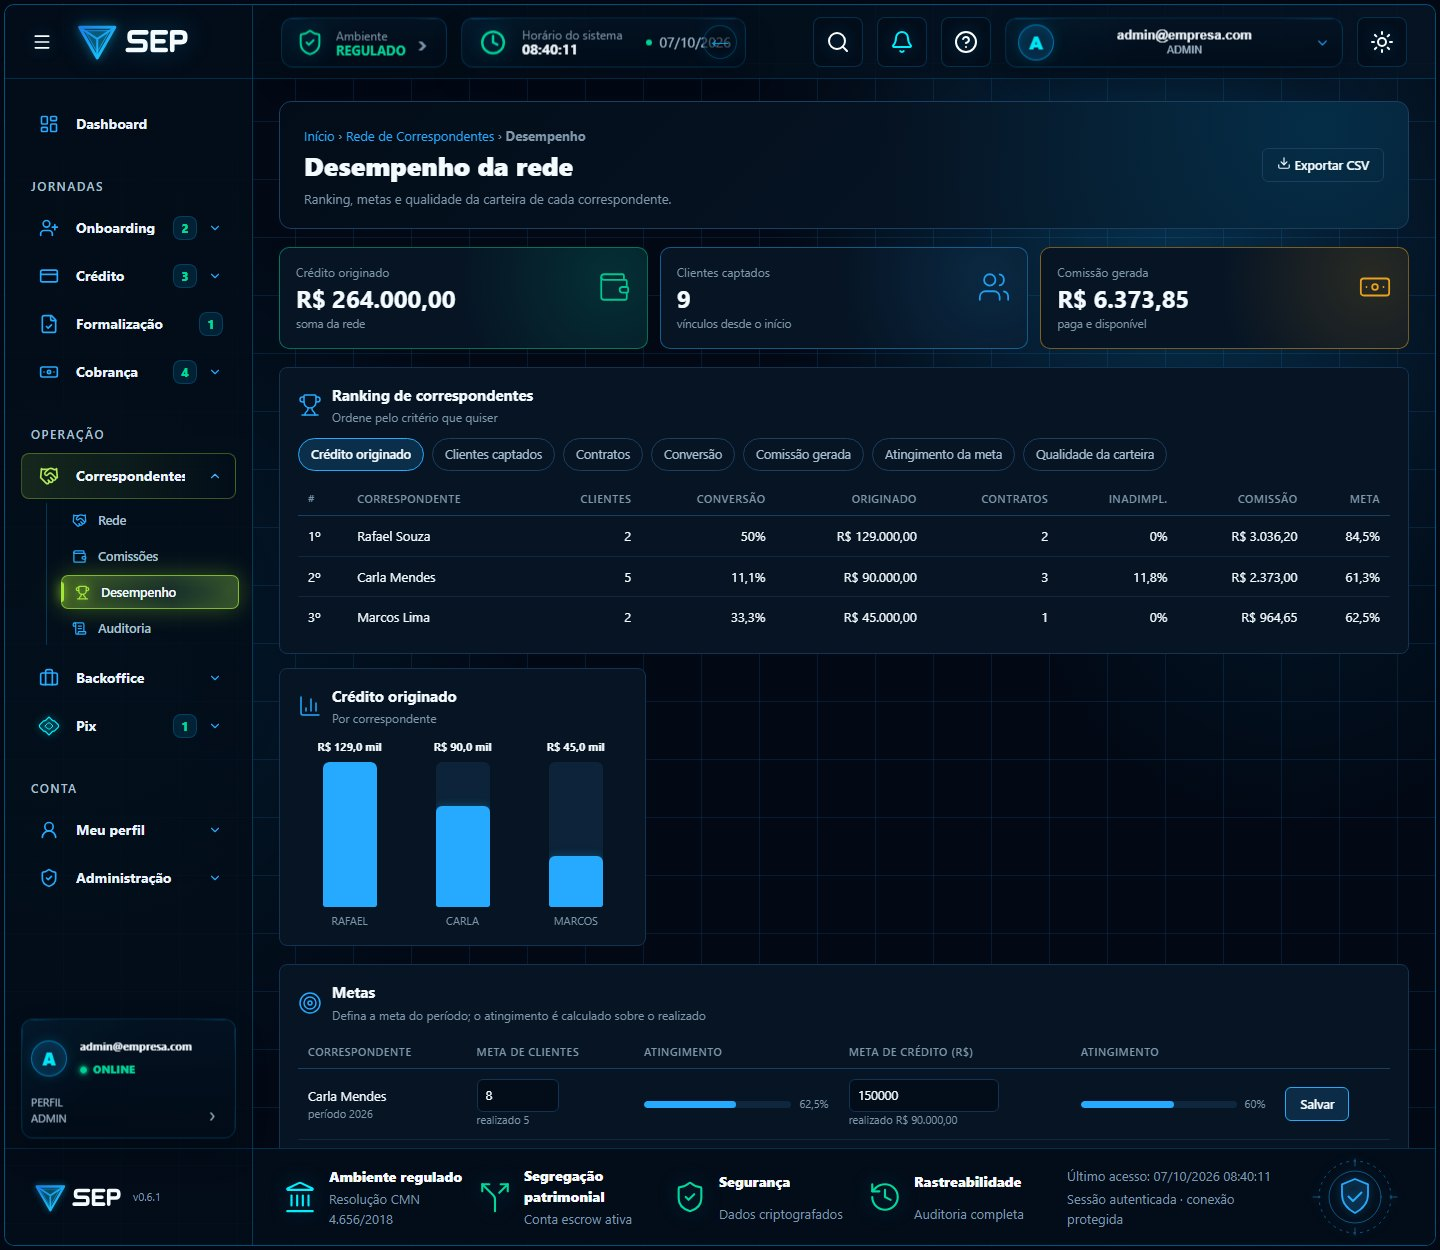
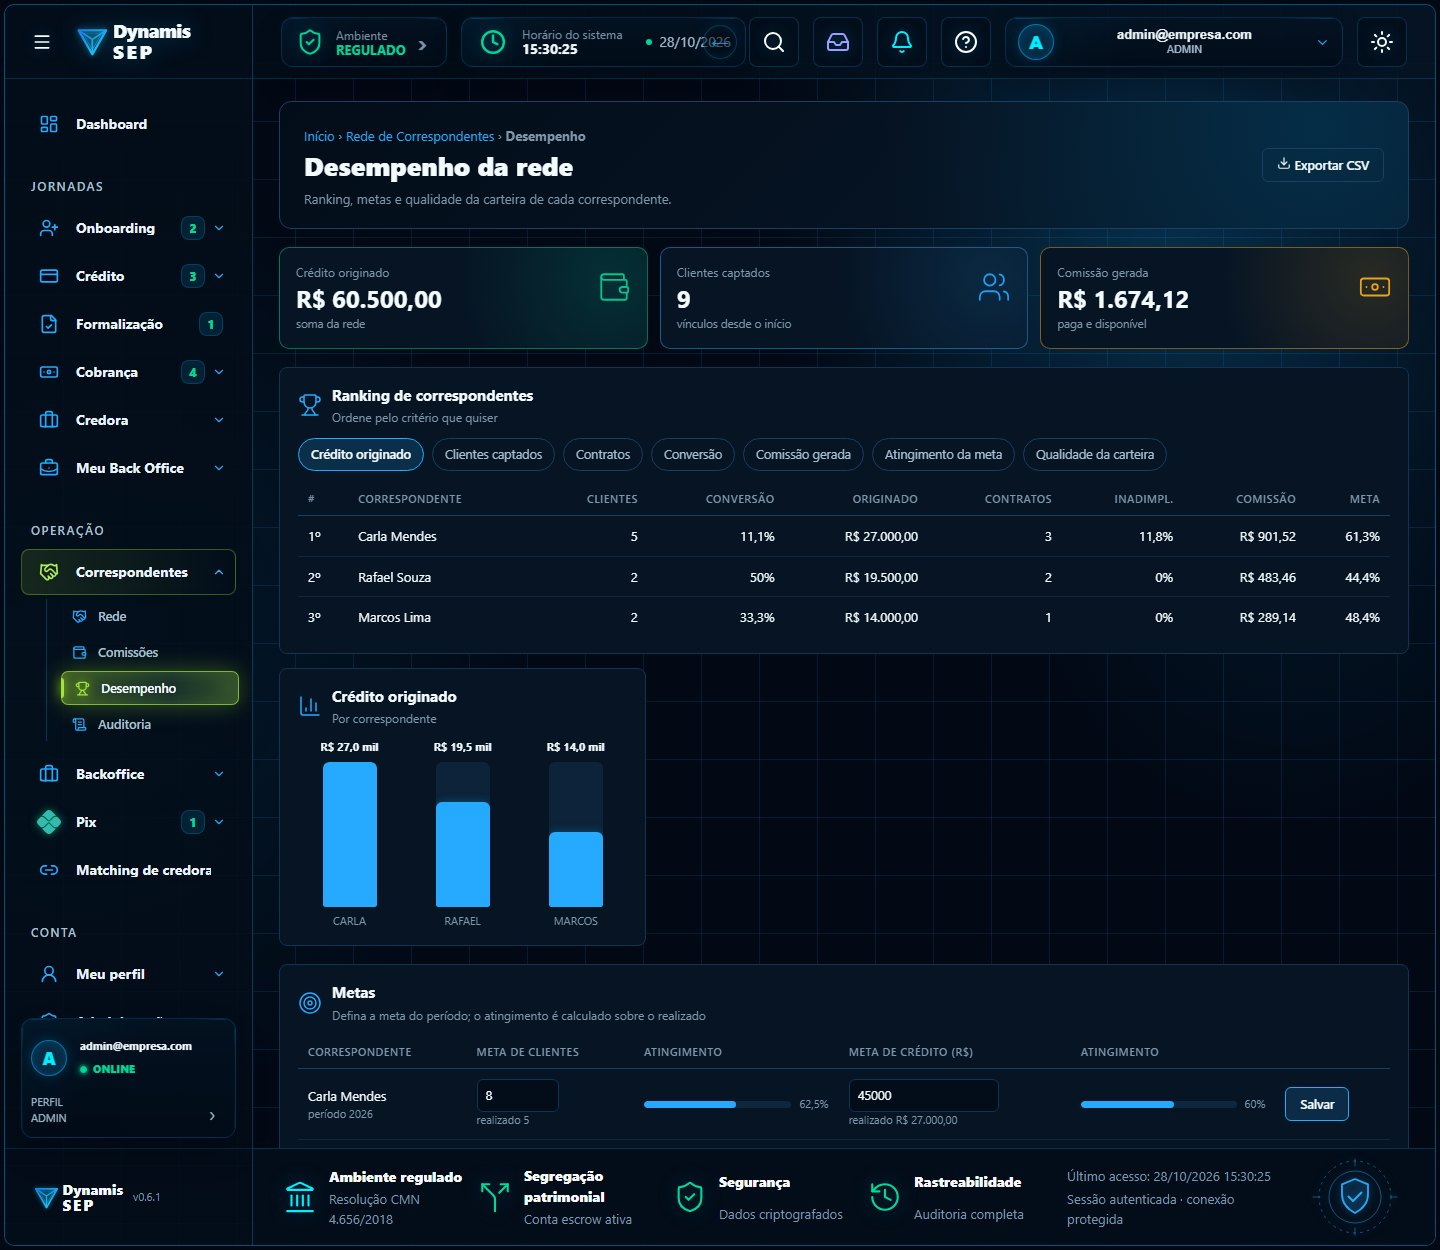
docs(imagens): refaz as 29 capturas do relatorio de 07/10 com a marca Dynamis SEP
As capturas dos modulos de correspondentes, rede de subs, Pix Automatico e analise de credito
mostravam a marca anterior ("SEP"). Os scripts passam a gravar o aviso de cookies como visto, para
ele nao cobrir o rodape das imagens. O relatorio em PDF/HTML nao foi regenerado.

diff --git a/docs/atualizacao-07102026/capturar-telas-extra.js b/docs/atualizacao-07102026/capturar-telas-extra.js
@@ -16,7 +16,11 @@ fs.mkdirSync(saida, { recursive: true });
 
 async function entrar(browser, email) {
   const ctx = await browser.newContext({ viewport: { width: 1440, height: 1250 }, deviceScaleFactor: 1 });
-  await ctx.addInitScript(() => window.localStorage.setItem('NG_APP_USE_MSW', 'true'));
+  await ctx.addInitScript(() => {
+    window.localStorage.setItem('NG_APP_USE_MSW', 'true');
+    // O aviso de cookies cobriria o rodape das capturas.
+    window.localStorage.setItem('SEP_AVISO_COOKIES', '1');
+  });
   const page = await ctx.newPage();
   await page.goto(`${BASE}/login`);
   await page.locator('#login-username').fill(email);

diff --git a/docs/atualizacao-07102026/capturar-telas.js b/docs/atualizacao-07102026/capturar-telas.js
@@ -15,7 +15,11 @@ fs.mkdirSync(saida, { recursive: true });
 
 async function entrar(browser, email) {
   const ctx = await browser.newContext({ viewport: { width: 1440, height: 1250 }, deviceScaleFactor: 1 });
-  await ctx.addInitScript(() => window.localStorage.setItem('NG_APP_USE_MSW', 'true'));
+  await ctx.addInitScript(() => {
+    window.localStorage.setItem('NG_APP_USE_MSW', 'true');
+    // O aviso de cookies cobriria o rodape das capturas.
+    window.localStorage.setItem('SEP_AVISO_COOKIES', '1');
+  });
   const page = await ctx.newPage();
   await page.goto(`${BASE}/login`);
   await page.locator('#login-username').fill(email);

diff --git a/docs/convergencia-mvp/README.md b/docs/convergencia-mvp/README.md
@@ -62,7 +62,8 @@ seção 4.
 
 ## Avisos de revisão (26/10/2026)
 
-- As capturas de `../atualizacao-07102026/imagens/` (módulos 1, 2, 4 e 5) são de 07/10 e mostram a **marca anterior** ("SEP"). As novas, em
-  `imagens/`, já têm "Dynamis SEP". Se for publicar, refazer as antigas com um script equivalente ao `capturar-telas.cjs`.
+- As capturas de `../atualizacao-07102026/imagens/` (módulos 1, 2, 4 e 5) foram refeitas em 28/10/2026 com a marca "Dynamis SEP" (scripts
+  `capturar-telas.js` e `capturar-telas-extra.js`, agora com o aviso de cookies já dispensado). As de `imagens/` já eram da marca nova. O relatório
+  de 07/10 (PDF, HTML e `publicar/`) **não** foi regenerado e ainda mostra a marca anterior.
 - O levantamento do `sep-api` é leitura de código (controllers e domínio), sem rodar a API: o Maurício deve confirmar o que já está implementado.
 - Números do comparativo: contagem por nome de arquivo e por `path:` únicos; refazer após o merge de convergência.
